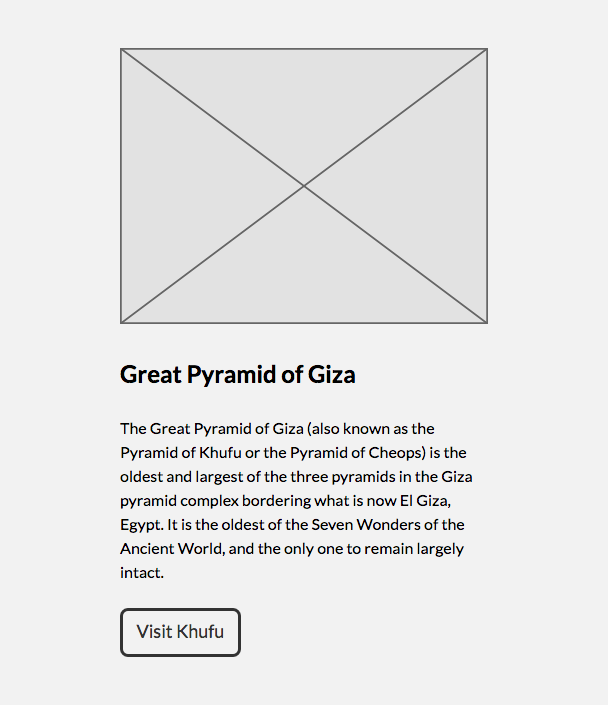
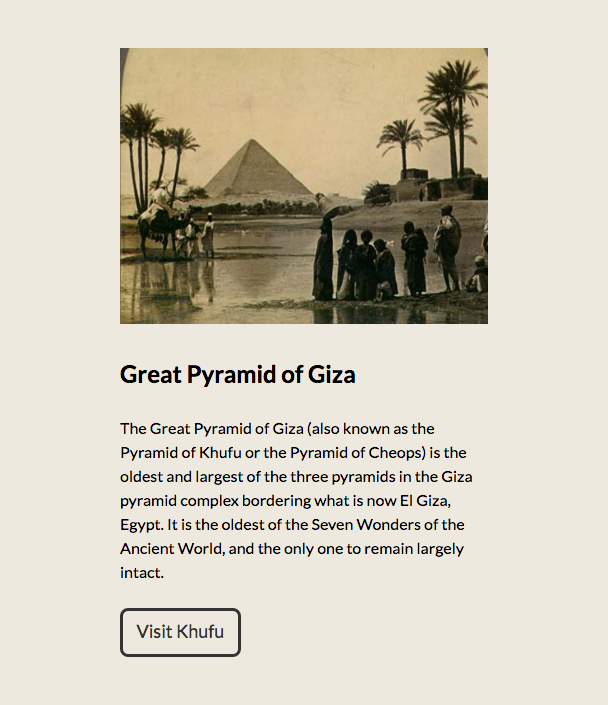
Made the assignment a little harder to match in Markbot

Changed region(s): [[0.1875, 0.0624, 0.8125, 0.4681]]

diff --git a/README.md b/README.md
@@ -20,8 +20,8 @@ deliverables: '1 HTML file, 1 CSS file, images'
 
 - *Typefaces:* `Lato`
 - *Maximum width on section inner boxes:* `25em`
-- *Colours:* `#666`, `#333`, `#f2f2f2`
-- *Paddings:* `1em`, `2em`, `0.4em 0.75em 0.5em`
+- *Colours:* `#666`, `#333`, `#eee9de`
+- *Paddings:* `1em`, `2em`, `.4em .75em .5em`
 - *Margins:* `1.5rem`
 - *Line-height:* `1.5`
 
